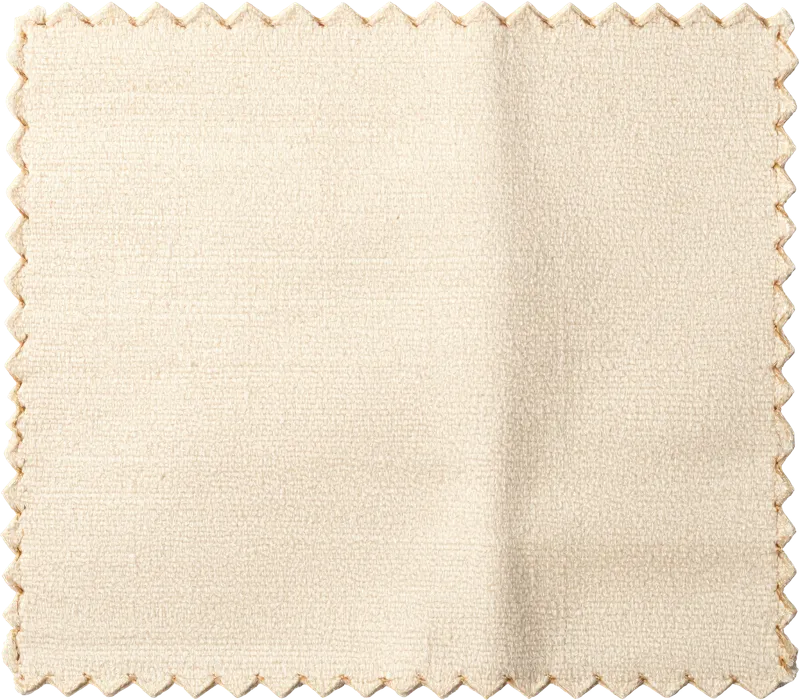
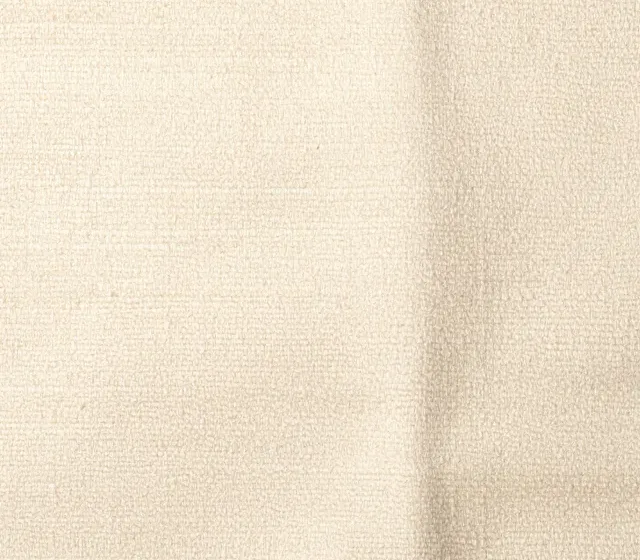
Close the eyebrow gap, trim About, crop two swatches
Travel and Our Story each gave the eyebrow a Band to itself, so that
Band's bottom padding and the next one's top padding ran end to end and
left the label stranded above an empty field --- about 150px on Travel.
The heading and eyebrow now sit inside the first section's Band, which is
how the dress code page already read. Both pages measure 96px from header
to eyebrow, the same as dress code and FAQ.

About our wedding is one subject instead of three. The grid centres a
single column and still goes three across if more are added, so this is a
content edit from here. Worth knowing: the Dress Code column carried the
only link to that page from the home page. The nav still has it.

The linen and flannel swatches were whole squares of cloth shot on white,
so the pinked edge and the drop shadow landed inside the capsule and read
as a sticker rather than a fabric. Cropped to the cloth.

Checked at 390, 768 and 1440: no overflow.

diff --git a/lib/italy-content.ts b/lib/italy-content.ts
@@ -41,6 +41,15 @@ export const ITALY_NAV = [
   { href: "/italy/faq", label: "FAQ" },
 ] as const;
 
+/* A subject in the About band. Declared rather than inferred so the optional
+   link survives the list being trimmed to one entry. */
+export type AboutColumn = {
+  motif: string;
+  title: string;
+  body: string;
+  href?: string;
+};
+
 /*
  * The home page is the whole invitation now: a welcome, the three days, the
  * Thursday run of show with the practical details beside it, and the reply.
@@ -49,32 +58,26 @@ export const ITALY_NAV = [
 export const ITALY_HOME = {
   hero: { script: "Il nostro giorno", tagline: "Three days in Umbria" },
   welcome: {
-    script: "We’re getting married",
+    script: "We’re getting married!",
     /* TBD — rewrite freely. */
-    body: "And we couldn’t imagine doing it without you. However long you have been part of our lives — from the very beginning, or somewhere along the way — we are so grateful to share this with you.",
-    body2: "Join us for three days in a hill town above the Tiber valley: a pizza party on the first night, a ceremony at the Monastero Santa Margherita, and a long dinner beneath its frescoed ceilings.",
+    body: "And we couldn’t imagine doing it without you. However long you have been part of our lives, we are so grateful to share this special moment with you.",
+    body2: "Join us for three days at Monastero Santa Margherita in the beautiful region of Umbria, Italy.",
     button: "RSVP here",
   },
   about: {
     title: "About our wedding",
+    /* One subject for now. The page renders however many are here: one
+       centred, several in a row. The Destination and Dress Code entries that
+       used to sit either side of this are in the history if they are wanted
+       back — the Dress Code one carried the only link to that page from the
+       home page, which the nav still provides. */
     columns: [
-      {
-        motif: "rings",
-        title: "The Ceremony",
-        body: "Four in the afternoon at the Monastero Santa Margherita, just outside the town walls, with the bells going across the valley.",
-      },
       {
         motif: "coupe",
         title: "The Reception",
         body: "Aperitivo on the terrace while the sun goes down, then a long dinner beneath the frescoes, and dancing after.",
       },
-      {
-        motif: "hat",
-        title: "The Dress Code",
-        body: "Summer cocktail on the Wednesday, black tie on the Thursday — with palettes and rather more detail.",
-        href: "/italy/dress-code",
-      },
-    ],
+    ] as AboutColumn[],
   },
   days: { title: "The three days" },
   rsvp: {

diff --git a/app/italy/travel/page.tsx b/app/italy/travel/page.tsx
@@ -76,11 +76,6 @@ function MarginArt({ id }: { id: string }) {
 export default function TravelPage() {
   return (
     <>
-      <Band tone="cream" pad="tight">
-        <h1 className="sr-only">Getting to Todi</h1>
-        <Eyebrow>{ITALY_TRAVEL.eyebrow}</Eyebrow>
-      </Band>
-
       {/* width="full" matters here: MarginArt positions its motifs at
           calc(25% - ...) against their own relative section, so capping the
           Band measure would make that 25% of 1080px instead of the viewport
@@ -89,7 +84,21 @@ export default function TravelPage() {
           containing block, and being a grandchild of the .linen element is
           what keeps the direct-child rule away from the absolute motifs. */}
       {ITALY_TRAVEL.sections.map((s, i) => (
-        <Band key={s.id} tone={i % 2 === 0 ? "cream" : "band"} width="full">
+        <Band
+          key={s.id}
+          tone={i % 2 === 0 ? "cream" : "band"}
+          width="full"
+          className={i === 0 ? "gap-5" : ""}
+        >
+          {/* The page heading and eyebrow ride inside the first section rather
+              than in a band of their own: two stacked bands put their padding
+              end to end and left a void between the label and the first word. */}
+          {i === 0 && (
+            <>
+              <h1 className="sr-only">Getting to Todi</h1>
+              <Eyebrow>{ITALY_TRAVEL.eyebrow}</Eyebrow>
+            </>
+          )}
           <section className="relative flex w-full flex-col items-center gap-[18px] text-center">
             <MarginArt id={s.id} />
 

diff --git a/app/italy/page.tsx b/app/italy/page.tsx
@@ -55,17 +55,21 @@ export default function ItalyHome() {
           </div>
           <PolaroidStack
             items={WELCOME_PHOTOS}
-            note={`Join us as we say “I do”
+            note={`Celebrate our love with us
 ${ITALY.dates}`}
             className="whitespace-pre-line min-[900px]:w-[320px]"
           />
         </div>
       </Band>
 
-      {/* About — the three columns */}
+      {/* About */}
       <Band tone="cream" width="wide">
         <ScriptTitle>{ITALY_HOME.about.title}</ScriptTitle>
-        <div className="mt-12 grid w-full gap-12 min-[800px]:grid-cols-3 min-[800px]:gap-8">
+        <div
+          className={`mt-12 grid w-full gap-12 min-[800px]:gap-8 ${
+            ITALY_HOME.about.columns.length > 1 ? "min-[800px]:grid-cols-3" : "max-w-[46ch]"
+          }`}
+        >
           {ITALY_HOME.about.columns.map((c) => (
             <div key={c.title} className="flex flex-col items-center gap-4 text-center">
               <Motif name={c.motif as MotifName} size={74} className="text-ink" />

diff --git a/app/italy/our-story/page.tsx b/app/italy/our-story/page.tsx
@@ -17,13 +17,19 @@ const PHOTOS = [
 export default function OurStoryPage() {
   return (
     <>
-      <Band tone="cream" pad="tight">
-        <h1 className="sr-only">Our story</h1>
-        <Eyebrow>{ITALY_STORY.eyebrow}</Eyebrow>
-      </Band>
-
       {ITALY_STORY.chapters.map((c, i) => (
-        <Band key={c.heading} tone={i % 2 === 0 ? "cream" : "band"} width="wide">
+        <Band
+          key={c.heading}
+          tone={i % 2 === 0 ? "cream" : "band"}
+          width="wide"
+          className={i === 0 ? "gap-10" : ""}
+        >
+          {i === 0 && (
+            <>
+              <h1 className="sr-only">Our story</h1>
+              <Eyebrow>{ITALY_STORY.eyebrow}</Eyebrow>
+            </>
+          )}
           {/* The photo leads on alternate chapters, so the eye zig-zags down
               the page rather than running straight. order- only applies from
               800px; stacked, the photo is always first. */}
